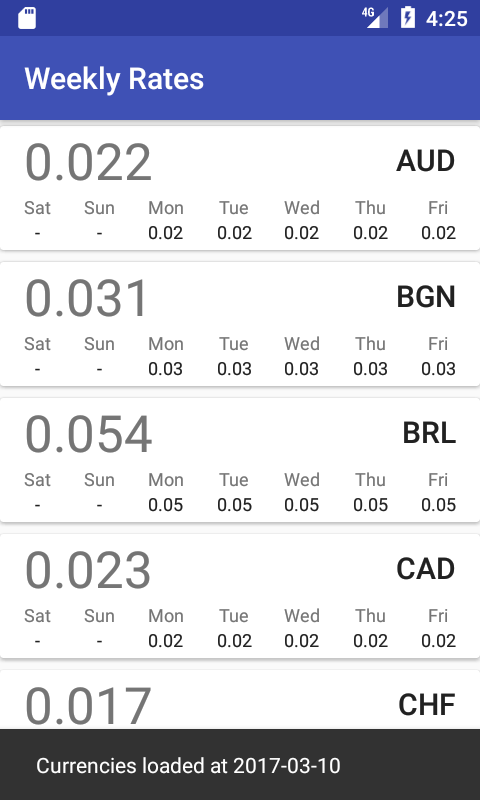
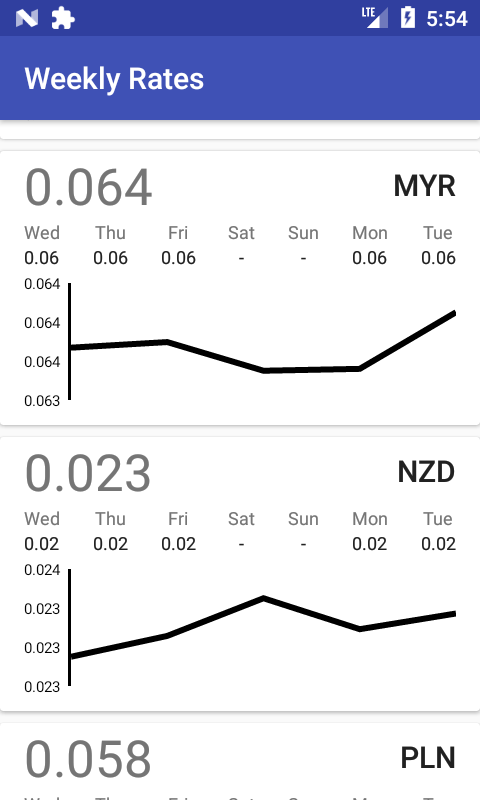
Add chart Add stetho realm browser

diff --git a/app/src/main/java/me/nikialeksey/weeklyrates/rates/impl/RatesHolder.java b/app/src/main/java/me/nikialeksey/weeklyrates/rates/impl/RatesHolder.java
@@ -5,7 +5,10 @@ import android.view.View;
 import android.view.ViewGroup;
 import android.widget.TextView;
 
+import com.db.chart.model.LineSet;
+import com.db.chart.renderer.AxisRenderer;
 import com.db.chart.view.LineChartView;
+import com.google.common.collect.Lists;
 
 import org.joda.time.DateTime;
 import org.joda.time.DateTimeConstants;
@@ -63,6 +66,9 @@ public class RatesHolder extends RecyclerView.ViewHolder {
 
     private void fillDailyRateValues(Rate rate, List<Rate> weeklyRates) {
         DateTime currentDay = new DateTime(rate.getDate());
+        final LineSet rateSet = new LineSet();
+        float min = Float.MAX_VALUE;
+        float max = Float.MIN_VALUE;
         for (int i = weeklyRateValues.size() - 1, j = weeklyRates.size() - 1; i >= 0; i--) {
             final TextView dailyRateValue = weeklyRateValues.get(i);
 
@@ -70,12 +76,33 @@ public class RatesHolder extends RecyclerView.ViewHolder {
             if (j >= 0) {
                 final Rate dailyRate = weeklyRates.get(j);
                 if (dailyRate.getDate().equals(currentDay.toDate())) {
-                    dailyRateValue.setText(numericRepresenter.representWithTwoDecimalPlaces(dailyRate.getValue()));
+                    final String dailyRateText = numericRepresenter.representWithTwoDecimalPlaces(
+                            dailyRate.getValue()
+                    );
+                    dailyRateValue.setText(dailyRateText);
+                    float floatValue = Float.parseFloat(dailyRate.getValue());
+                    rateSet.addPoint("", floatValue);
+
+                    min = Math.min(min, floatValue);
+                    max = Math.max(max, floatValue);
+
                     j--;
                 }
             }
             currentDay = currentDay.minusDays(1);
         }
+
+        ratesChart.getData().clear();
+        ratesChart.addData(rateSet);
+        ratesChart.setXAxis(false);
+        float offset = (max - min) / 2f;
+        if (offset == 0f) {
+            offset = 0.01f;
+        }
+        float minAxis = Math.max(min - offset, 0f);
+        float maxAxis = max + offset;
+        ratesChart.setAxisBorderValues(minAxis, maxAxis, (maxAxis - minAxis) / 3);
+        ratesChart.show();
     }
 
     private void fillDayOfWeekNames(Date lastWeekDay) {
@@ -95,7 +122,12 @@ public class RatesHolder extends RecyclerView.ViewHolder {
         for (int i = 0; i < DateTimeConstants.DAYS_PER_WEEK; i++) {
             final View daily = createDailyRate(inflater, weeklyRates);
             dailyRates.add(daily);
-            weeklyRates.addView(daily, new ConstraintLayout.LayoutParams(ViewGroup.LayoutParams.WRAP_CONTENT, ViewGroup.LayoutParams.WRAP_CONTENT));
+            weeklyRates.addView(
+                    daily,
+                    new ConstraintLayout.LayoutParams(
+                            ViewGroup.LayoutParams.WRAP_CONTENT, ViewGroup.LayoutParams.WRAP_CONTENT
+                    )
+            );
         }
 
         final ConstraintSet constraintSet = createConstraintSetForHorizontalChain(weeklyRates, dailyRates);
@@ -112,8 +144,10 @@ public class RatesHolder extends RecyclerView.ViewHolder {
         final ConstraintSet constraintSet = new ConstraintSet();
         constraintSet.clone(weeklyRates);
         constraintSet.createHorizontalChain(
-                weeklyRates.getId(), ConstraintSet.LEFT, weeklyRates.getId(), ConstraintSet.RIGHT,
-                chainIds, null, ConstraintSet.CHAIN_SPREAD_INSIDE);
+                weeklyRates.getId(), ConstraintSet.LEFT,
+                weeklyRates.getId(), ConstraintSet.RIGHT,
+                chainIds, null, ConstraintSet.CHAIN_SPREAD_INSIDE
+        );
         return constraintSet;
     }
 

diff --git a/app/src/debug/java/me/nikialeksey/weeklyrates/DebugApp.java b/app/src/debug/java/me/nikialeksey/weeklyrates/DebugApp.java
@@ -1,0 +1,19 @@
+package me.nikialeksey.weeklyrates;
+
+import com.facebook.stetho.Stetho;
+import com.uphyca.stetho_realm.RealmInspectorModulesProvider;
+
+public class DebugApp extends WeeklyRatesApp {
+    @Override
+    public void onCreate() {
+        super.onCreate();
+        Stetho.initialize(
+                Stetho.newInitializerBuilder(this)
+                        .enableDumpapp(Stetho.defaultDumperPluginsProvider(this))
+                        .enableWebKitInspector(
+                                RealmInspectorModulesProvider.builder(this).build()
+                        )
+                        .build()
+        );
+    }
+}
